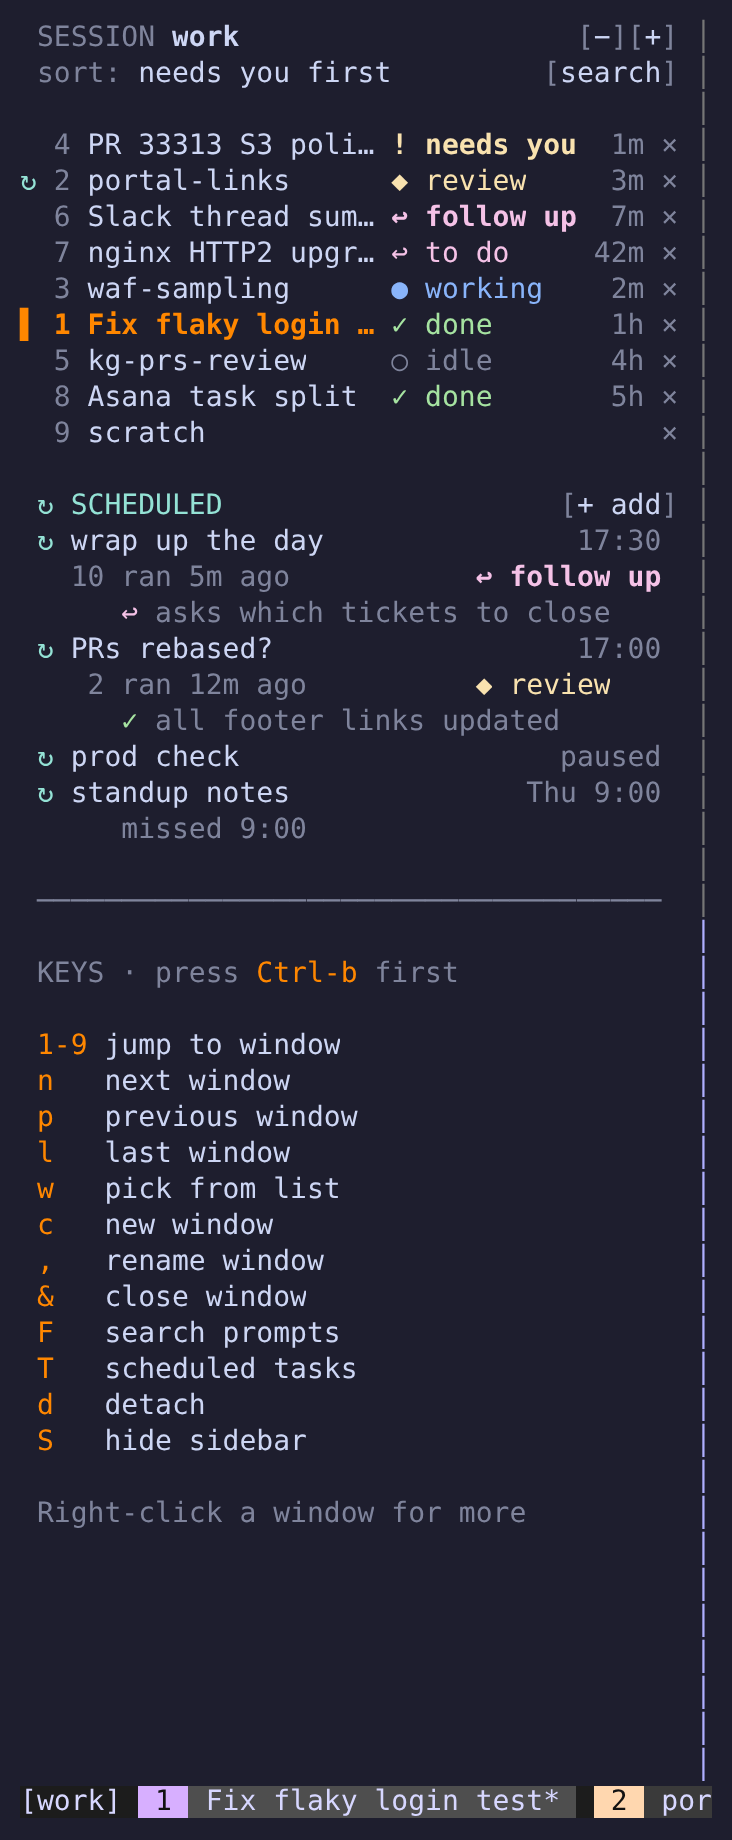
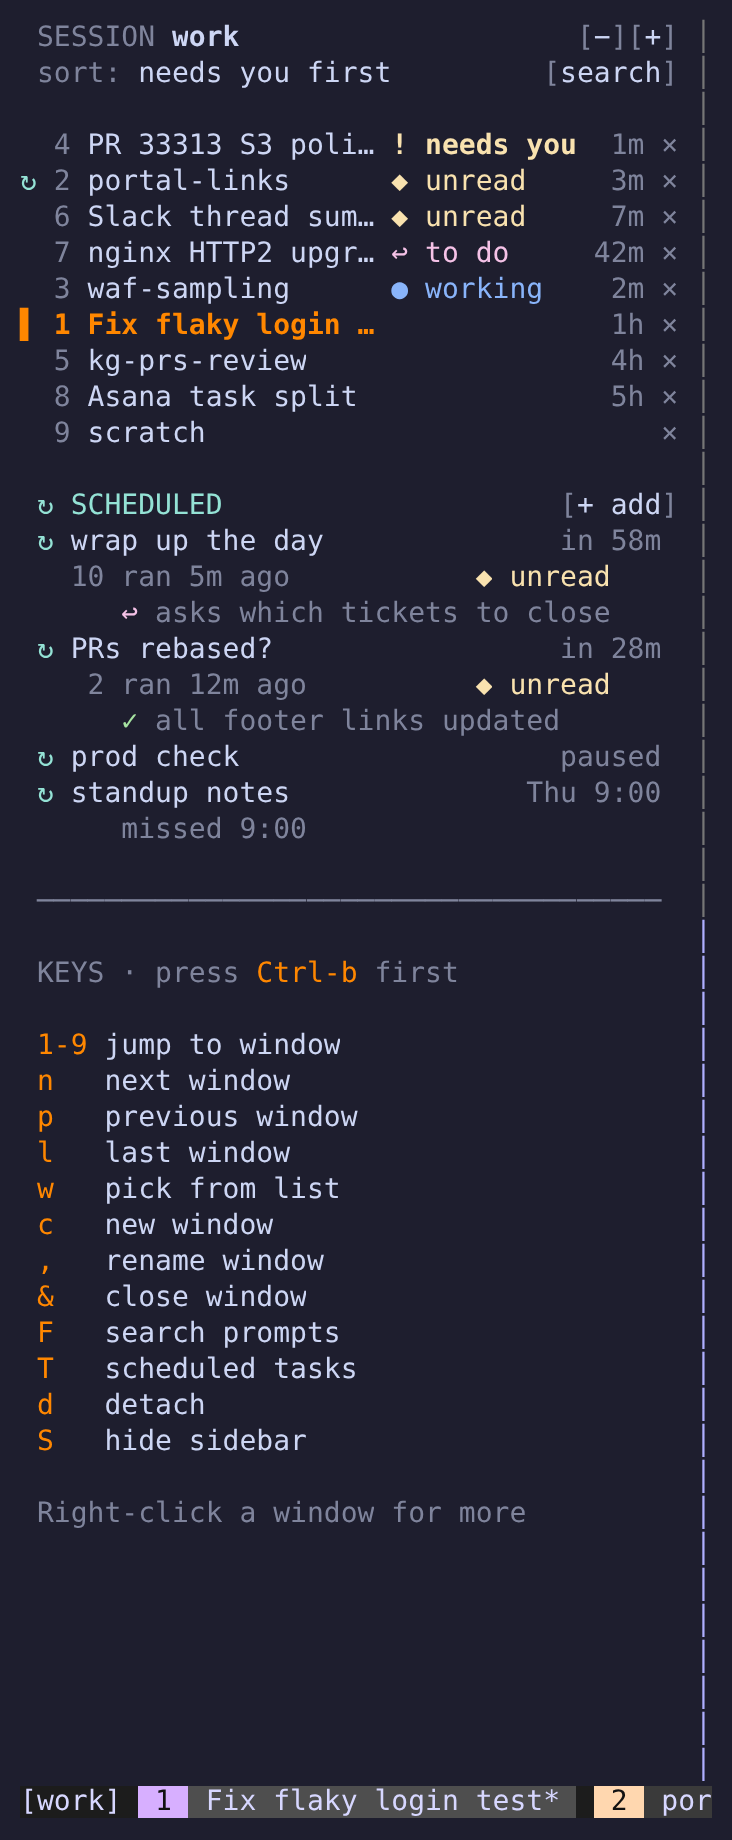
Simpler statuses; to-do only when Claude really needs you
The list mixed seven statuses (needs you, review, follow up, to do,
working, done, idle), and almost every read window became "to do",
because nearly every Claude reply ends by offering something ("Want me
to also open a PR?") and a trailing "?" was flagged at once.

Now four labels, each answering "does this want anything from me?":
  ! needs you  stopped at a permission prompt or question
  ◆ unread     finished since you last looked (yellow)
  ↩ to do      read, and Claude is waiting on your answer (magenta)
  ● working    busy
  (no label)   nothing needed: what was "done" and "idle"
Sorted in that order, then by most recent.

The follow-up check is stricter: only a turn that cannot go on without
you (an answer or decision it needs, a blocker, work left undone) is a
to-do; optional offers are wrapped up, and when in doubt, wrapped up.
The instant "ends with ?" guess is gone. Checked on real Haiku: "tests
pass, want me to open a PR?" -> wrapped; "which approach before I
continue?" -> to do.

Right-click > "Mark all to-dos done" clears to-dos left by the old,
eager check.

Claude-Session: https://claude.ai/code/session_013KgnzHV6sD8bfHRS8osd48

diff --git a/test/acceptance.py b/test/acceptance.py
@@ -14,6 +14,7 @@ terminal resizes go through tmux exactly as they would from a terminal.
 import argparse
 import fcntl
 import json
+import re
 import os
 import pty
 import select
@@ -41,8 +42,8 @@ ENV.pop("TMUX_PANE", None)
 ENV.pop("CLAUDE_CODE_DISABLE_TERMINAL_TITLE", None)
 
 results = []
-LABELS = {"working": "● working", "needs": "! needs you", "review": "◆ review",
-          "done": "✓ done", "idle": "○ idle"}
+LABELS = {"working": "● working", "needs": "! needs you", "review": "◆ unread"}
+QUIET = ("done", "idle")      # nothing needed: no label at all
 
 
 def tmux(*a, check=True):
@@ -339,6 +340,12 @@ def run(c, work, codez):
     for state, label in LABELS.items():
         tmux("set", "-w", "-t", bg, "@claude_state", state)
         check("sidebar shows %r" % label, wait(lambda: row_of(sb, label) is not None, 2.5))
+    bgn = fmt(bg, "#{window_name}")[:8]
+    for state in QUIET:
+        tmux("set", "-w", "-t", bg, "@claude_state", state)
+        check("sidebar shows no label for %r (nothing needed)" % state,
+              wait(lambda: not any(x in (tmux("capture-pane", "-p", "-t", sb).splitlines()[row_of(sb, bgn)])
+                                   for x in ("◆", "●", "!", "↩", "✓", "○")), 2.5))
     tmux("set", "-uw", "-t", bg, "@claude_state")
     bg_name = fmt(bg, "#{window_name}")[:8]
     check("plain shell window shows no status",
@@ -527,16 +534,17 @@ def attention_checks(c, W, ec):
     run_hook(pa, "done")
     check("review: Stop in a background window -> review",
           wait(lambda: fmt(a, "#{@claude_state}") == "review", 2.5), fmt(a, "#{@claude_state}"))
-    check("review: sidebar shows ◆ review",
-          wait(lambda: any(" %s " % an in l and "◆ review" in l for l in sidebar_lines()), 3))
+    check("review: sidebar shows ◆ unread",
+          wait(lambda: any(" %s " % an in l and "◆ unread" in l for l in sidebar_lines()), 3))
     drawn = lambda w: fmt(w, "#{E:window-status-format}").lower()
     check("review: its tab is drawn yellow", "bg=#f9e2af" in drawn(a), drawn(a))
     check("review: a quiet window's tab is not yellow", "#f9e2af" not in drawn(ws[3]), drawn(ws[3]))
     tmux("select-window", "-t", a)
     check("review: switching to it marks it done",
           wait(lambda: fmt(a, "#{@claude_state}") == "done", 3), fmt(a, "#{@claude_state}"))
-    check("review: then the sidebar shows ✓ done",
-          wait(lambda: any(" %s " % an in l and "✓ done" in l for l in sidebar_lines()), 3))
+    check("review: then it is quiet (no label, still the age)",
+          wait(lambda: any(" %s " % an in l and "◆" not in l and "<1m ×" in l for l in sidebar_lines()), 3),
+          "\n".join(sidebar_lines()))
     check("rows: the age column lines up with the ×",
           all(l.rstrip().endswith("×") for l in sidebar_lines() if " %s " % an in l))
     tmux("select-window", "-t", cur)
@@ -765,8 +773,8 @@ def judge_checks(c, W):
 
     answer("FOLLOWUP: asks whether to open a PR\n")
     turn("Fixed the race and tests pass. Want me to open a PR?")
-    check("judge: a reply ending in a question is a follow-up at once",
-          wait(lambda: fmt(t, "#{@claude_verdict}") == "followup", 2), fmt(t, "#{@claude_verdict}"))
+    check("judge: the system prompt treats optional offers as wrapped up",
+          wait(lambda: os.path.exists(log), 3) and "optional offer is not a follow-up" in open(log).read())
     check("judge: Claude's verdict and reason are stored",
           wait(lambda: fmt(t, "#{@claude_note}") == "asks whether to open a PR", 5), fmt(t, "#{@claude_note}"))
     calls = open(log).read() if os.path.exists(log) else ""
@@ -778,26 +786,28 @@ def judge_checks(c, W):
           "fix the flaky login test" in calls and "Want me to open a PR?" in calls)
     tname = fmt(t, "#{window_name}")[:10]
     row = lambda: next((l for l in sidebar_lines() if tname in l and "×" in l), "")
-    check("judge: unread and not wrapped up -> 'follow up' (status only, no reason)",
-          wait(lambda: "↩ follow up" in row(), 3)
+    check("judge: unread and not wrapped up -> still just 'unread' (status only, no reason)",
+          wait(lambda: fmt(t, "#{@claude_verdict}") == "followup" and "◆ unread" in row(), 5)
           and not any("asks whether to open" in l for l in sidebar_lines()), "\n".join(sidebar_lines()))
     check("judge: an unread follow-up turns its tab yellow",
           "bg=#f9e2af" in fmt(t, "#{E:window-status-format}").lower())
     check("judge: the menu still offers 'Mark as reviewed' for it",
-          "=review=followup=" in tmux("show", "-pqv", "-t", sidebar_panes(cur)[0], "@sidebar_rows"),
+          wait(lambda: "=review=followup=" in tmux("show", "-pqv", "-t", sidebar_panes(cur)[0], "@sidebar_rows"), 3),
           tmux("show", "-pqv", "-t", sidebar_panes(cur)[0], "@sidebar_rows"))
     tmux("select-window", "-t", t)
     check("judge: once you have looked, it is 'to do' (read, not done)",
-          wait(lambda: "↩ to do" in row() and "follow up" not in row(), 3), "\n".join(sidebar_lines()))
+          wait(lambda: "↩ to do" in row() and "unread" not in row(), 3), "\n".join(sidebar_lines()))
     tmux("select-window", "-t", cur)
     other = [w for w in ws if w not in (t, cur)][-1]
     tmux("set", "-w", "-t", other, "@claude_state", "done")
     tmux("set", "-w", "-t", other, "@claude_updated", str(int(time.time()) + 5))
 
+    oname = fmt(other, "#{window_name}")[:10]
+
     def follow_first():
         lines = sidebar_lines()
         f = [i for i, l in enumerate(lines) if "↩ to do" in l]
-        d = [i for i, l in enumerate(lines) if "✓ done" in l and "×" in l]
+        d = [i for i, l in enumerate(lines) if oname in l and "×" in l]
         return f and d and f[0] < d[0]
     check("judge: a 'to do' sorts above done windows, even newer ones",
           wait(follow_first, 3), "\n".join(sidebar_lines()))
@@ -811,10 +821,9 @@ def judge_checks(c, W):
     c.send("\x1b[<2;6;%dm" % (y + 1))
     check("judge: menu offers 'Mark as wrapped up'", wait(lambda: b"Mark as wrapped up" in c.buf, 3))
     c.send("w")
-    check("judge: marking it wrapped up -> done",
-          wait(lambda: fmt(t, "#{@claude_verdict}") == "wrapped" and
-               any(" %s " % fmt(t, "#{window_name}")[:10] in l and "✓ done" in l
-                   for l in sidebar_lines()), 3), "\n".join(sidebar_lines()))
+    check("judge: marking it wrapped up -> quiet",
+          wait(lambda: fmt(t, "#{@claude_verdict}") == "wrapped" and "↩" not in row(), 3),
+          "\n".join(sidebar_lines()))
 
     answer("WRAPPED: tests pass, nothing pending\n")
     turn("All done: the flaky test is fixed and CI is green.")
@@ -838,14 +847,13 @@ def judge_checks(c, W):
           fmt(t, "#{@claude_verdict}") == "" and fmt(t, "#{@claude_state}") == "working",
           fmt(t, "#{@claude_verdict}|#{@claude_state}|#{@claude_note}|#{@claude_turn}|#{@claude_prompt}"))
 
-    # Turned off: only the quick guess, no call.
+    # Turned off: no call, no verdict (a trailing "?" alone is not a to-do).
     tmux("set", "-g", "@claude_sidebar_judge", "off")
     try:
         os.remove(log)
         turn("Which database should I use, Postgres or SQLite?")
-        check("judge: off -> still the quick guess",
-              wait(lambda: fmt(t, "#{@claude_verdict}") == "followup", 3))
         time.sleep(1.5)
+        check("judge: off -> no verdict", fmt(t, "#{@claude_verdict}") == "", fmt(t, "#{@claude_verdict}"))
         check("judge: off -> Claude is not called", not os.path.exists(log))
     finally:
         tmux("set", "-gu", "@claude_sidebar_judge")
@@ -960,7 +968,7 @@ def sched_checks(c, W):
         c.send("\x1b")
         time.sleep(0.5)
         check("sched: the sidebar lists both tasks with their next run",
-              wait(lambda: any("↻ PRs rebased" in l and ("17:30" in l or ":" in l) for l in lines()) and
+              wait(lambda: any(re.search(r"↻ PRs rebased\s+(\S.*)?(in \d+m|\d+:\d\d)", l) for l in lines()) and
                    any("↻ standup-notes" in l for l in lines()), 4), "\n".join(lines()))
 
         # Run now -> a new window of its own (stub Claude), listed under SCHEDULED.
@@ -1272,7 +1280,7 @@ def claude_checks(c, codez, close_via_x):
     tmux("send-keys", "-t", cp, "Enter")  # approve
     check("5. Claude finishes in a background window -> review",
           wait(lambda: fmt(cw, "#{@claude_state}") == "review", 90), fmt(cw, "#{@claude_state}"))
-    check("5. sidebar shows review", wait(lambda: row_of(sb, "◆ review") is not None, 3))
+    check("5. sidebar shows unread", wait(lambda: row_of(sb, "◆ unread") is not None, 3))
     check("claude: the tool really ran", os.path.exists(os.path.join(codez, "tcs-probe.txt")))
     pid = fmt(cw, "#{@claude_pid}")
     check("claude: hooks record Claude Code's own pid (it runs in the pane)",
@@ -1337,7 +1345,7 @@ def claude_checks(c, codez, close_via_x):
         sb2 = sidebar_panes(current_window())[0]
         check("sched live: shown under SCHEDULED with its status",
               wait(lambda: row_of(sb2, "↻ live check") is not None and
-                   any("ran" in l and "◆ review" in l for l in tmux("capture-pane", "-p", "-t", sb2).splitlines()), 4))
+                   any("ran" in l and "◆ unread" in l for l in tmux("capture-pane", "-p", "-t", sb2).splitlines()), 4))
         tmux("kill-window", "-t", sw)
     finally:
         if saved is None:

diff --git a/sidebar/judge.py b/sidebar/judge.py
@@ -8,8 +8,7 @@ Writes on the pane's window:
     @claude_verdict   "wrapped" or "followup"
     @claude_note      a few words saying why
 
-First a quick guess (the reply ends with a question), then a one-shot call to
-Claude Code itself (`claude -p --model haiku`, your existing login; hooks,
+A one-shot call to Claude Code itself (`claude -p --model haiku`, your existing login; hooks,
 tools, MCP servers and session saving are all off for that call), unless
 turned off with `sidebar.sh judge off`. Results for a turn that has since been
 followed by a new prompt are dropped. Always exits 0, silently.
@@ -26,14 +25,16 @@ MAX_CHARS = 6000
 TIMEOUT = 90
 SYSTEM = (
     "You triage finished Claude Code turns for a busy developer who runs many "
-    "sessions in parallel and cannot reread them all. Decide whether the work "
-    "in this turn is wrapped up, or whether the developer should come back to "
-    "it. Come back (FOLLOWUP) when Claude asked a question, offered options or "
-    "a choice, proposed a plan awaiting approval, hit an error or blocker it "
-    "could not get past, left requested steps undone, or says what to do next "
-    "and is waiting. WRAPPED when the request is done and nothing is pending "
-    "from the developer (a summary of finished work, passing tests, an answer "
-    "to a question). Reply with exactly one line, no other text: "
+    "sessions in parallel. A FOLLOWUP puts the session on the developer's "
+    "to-do list, so use it sparingly: only when the work cannot go on without "
+    "the developer. FOLLOWUP when Claude needs an answer or a decision to "
+    "continue (which of two approaches, missing information, approval of a "
+    "plan it is waiting on), hit an error or blocker it could not get past, "
+    "or left part of what was asked undone. WRAPPED when what was asked is "
+    "done or answered, even if Claude ends by offering optional extras or "
+    "next steps (\"Want me to also open a PR?\", \"I can add tests if you "
+    "like\", \"Let me know if...\"): an optional offer is not a follow-up. "
+    "When in doubt, WRAPPED. Reply with exactly one line, no other text: "
     "\"WRAPPED: <reason>\" or \"FOLLOWUP: <reason>\", the reason at most 8 "
     "words, specific (e.g. \"asks whether to open a PR\")."
 )
@@ -132,15 +133,6 @@ def last_reply_from_transcript(path):
     return text
 
 
-def quick_guess(reply):
-    """A question at the end of the reply means it is waiting for you."""
-    tail = reply.strip()[-300:]
-    last = [ln for ln in tail.splitlines() if ln.strip()][-1:] or [""]
-    if last[0].rstrip(" *_`)").endswith("?"):
-        return "followup", "ends with a question"
-    return None
-
-
 def ask_claude(prompt, reply):
     exe = shutil.which("claude")
     if not exe:
@@ -188,10 +180,8 @@ def main():
     if not reply.strip():
         return
     quiet = remember_report(pane, reply) == "nothing new"
-    guess = quick_guess(reply)
-    if guess:
-        write(pane, turn, *guess)
-        ring_if_scheduled(pane, turn)
+    # No quick guess from a trailing "?": most replies end by offering
+    # something optional, which is not a follow-up. Only the check decides.
     if tmux("show", "-gqv", "@claude_sidebar_judge") == "off":
         return
     prompt = tmux("display", "-p", "-t", pane, "#{@claude_prompt}")

diff --git a/sidebar/search.py b/sidebar/search.py
@@ -22,10 +22,10 @@ import unicodedata
 from datetime import datetime
 
 STATE_LABEL = {
-    "needs": "! needs you", "review": "◆ review", "working": "● working",
-    "done": "✓ done", "idle": "○ idle", "followup": "↩ follow up", "todo": "↩ to do", "": "",
+    "needs": "! needs you", "review": "◆ unread", "followup": "◆ unread",
+    "todo": "↩ to do", "working": "● working", "done": "", "idle": "", "": "",
 }
-TIER = {"needs": 0, "review": 1, "followup": 1, "todo": 2}
+TIER = {"needs": 0, "review": 1, "followup": 1, "todo": 2, "working": 3}
 
 
 def tmux(*args):
@@ -249,7 +249,7 @@ def ui(stdscr, client, wins):
         pass
     pairs = {}
     for i, (key, fg) in enumerate((("needs", curses.COLOR_YELLOW), ("review", curses.COLOR_YELLOW),
-                                   ("followup", curses.COLOR_MAGENTA), ("todo", curses.COLOR_MAGENTA),
+                                   ("followup", curses.COLOR_YELLOW), ("todo", curses.COLOR_MAGENTA),
                                    ("working", curses.COLOR_BLUE), ("done", curses.COLOR_GREEN),
                                    ("idle", -1), ("match", curses.COLOR_YELLOW),
                                    ("accent", 208 if curses.COLORS >= 256 else curses.COLOR_RED)), 1):

diff --git a/sidebar/sched.py b/sidebar/sched.py
@@ -804,9 +804,9 @@ def clip(text, width):
     return "".join(out)
 
 
-STATE_LABEL = {"needs": "! needs you", "review": "◆ review", "working": "● working",
-               "done": "✓ done", "idle": "○ idle", "followup": "↩ follow up",
-               "todo": "↩ to do"}
+STATE_LABEL = {"needs": "! needs you", "review": "◆ unread", "followup": "◆ unread",
+               "todo": "↩ to do", "working": "● working", "done": "✓ finished",
+               "idle": "✓ finished"}
 
 
 def run_status(win):
@@ -839,7 +839,7 @@ def ui(stdscr, args):
         pass
     colors = {}
     for i, (k, fg) in enumerate((("needs", curses.COLOR_YELLOW), ("review", curses.COLOR_YELLOW),
-                                 ("followup", curses.COLOR_MAGENTA), ("todo", curses.COLOR_MAGENTA),
+                                 ("followup", curses.COLOR_YELLOW), ("todo", curses.COLOR_MAGENTA),
                                  ("working", curses.COLOR_BLUE),
                                  ("done", curses.COLOR_GREEN), ("accent", 208 if curses.COLORS >= 256 else curses.COLOR_RED),
                                  ("cyan", curses.COLOR_CYAN), ("err", curses.COLOR_RED)), 1):

diff --git a/README.md b/README.md
@@ -21,19 +21,14 @@ From the top:
 - **One row per window**: its number, name, Claude Code status, how long
   ago that status changed, and a `×` to close it. The orange bar marks the
   window you are in.
-- **Status**:
-  - `! needs you` (bold yellow): a permission prompt or a question dialog.
-  - `◆ review` (yellow): Claude finished while you were not looking, and
-    the work is wrapped up (or the AI check has not answered yet).
-  - `↩ follow up` (bold magenta): Claude finished while you were not
-    looking, and the turn is not wrapped up: it asked something, offered
-    options, hit an error, or left steps undone.
-  - `↩ to do` (magenta): a follow-up you have already looked at. It stays in
-    the list until you reply or mark it wrapped up, but no longer counts as
-    unread.
-  - `● working` (blue), `✓ done` (green, wrapped up and seen), `○ idle` (grey).
-- **Why a window needs you** (`↩ asks whether to open a PR`) and your last
-  prompt are in search (`Ctrl-b F`), which keeps the list itself short.
+- **Status**, one of four, in this order:
+  - `! needs you` (bold yellow): Claude is stopped at a permission prompt or
+    a question.
+  - `◆ unread` (yellow): Claude finished since you last looked.
+  - `↩ to do` (magenta): you have looked, and Claude is waiting on your
+    answer or decision (see "Wrapped up, or come back to it?" below).
+  - `● working` (blue): Claude is busy.
+  - No label: nothing is needed from you (finished and read, or not started).
 - **↻ SCHEDULED**: your scheduled tasks, each with its next run, and under
   it the window it last ran in with that run's status (and why, if it needs
   you). Click a task to manage it, a run line to go to that window, or
@@ -46,27 +41,28 @@ From the top:
 ## Features
 
 - **Status per window**: `working` after you send a prompt, `needs you` when
-  Claude asks for permission or asks you a question, `review` when it
-  finishes while you are elsewhere, `done` once you have looked, `idle` when a
-  session has started but has no prompt yet (or you stopped it with Esc).
-  Windows without Claude Code show no status.
-- **Review until you look**: a turn that ends in a window you are not looking
-  at shows `◆ review` and turns its tab in the status bar yellow. Switching to
-  the window marks it `done`. "Looking" means it is the current window and the
+  Claude asks for permission or asks you a question, `unread` when it
+  finishes while you are elsewhere, then no label once you have looked (or
+  `to do` if it is waiting on you).
+- **Unread until you look**: a turn that ends in a window you are not looking
+  at shows `◆ unread` and turns its tab in the status bar yellow. Switching to
+  the window marks it read. "Looking" means it is the current window and the
   terminal has focus, so a turn that ends while you are in another app also
   waits for you.
 - **Wrapped up, or come back to it?** When a turn ends, a short background
   call to Claude (`claude -p --model haiku`, with your existing login) reads
-  your last prompt and Claude's final message and decides. A turn that needs
-  you shows `↩ follow up` until you look at it, then `↩ to do`, which stays
-  near the top until you send another prompt or right-click it and choose
-  "Mark as wrapped up". Before that call answers (a few seconds), a reply that ends with a
-  question already counts as a follow-up. It costs one small Haiku request per
+  your last prompt and Claude's final message and decides. Only a turn that
+  cannot go on without you counts: Claude needs an answer or decision, hit a
+  blocker or error, or left part of the request undone. An optional offer at
+  the end ("Want me to also open a PR?") does not. Once you have looked at
+  such a turn it shows `↩ to do` until you send another prompt or right-click
+  it and choose "Mark as wrapped up" ("Mark all to-dos done" clears them
+  all). It costs one small Haiku request per
   finished turn; turn it off from the right-click menu, or with
   `~/.tmux/sidebar/sidebar.sh judge off`. That call runs with hooks, tools,
   MCP servers and session saving switched off.
-- **Sorted by what needs you**: `needs you`, then unread (`review` and
-  `follow up`), then `to do`, then the rest by when they last changed, then
+- **Sorted by what needs you**: `needs you`, then `unread`, then `to do`,
+  then `working`, then the rest by when they last changed, then
   windows without Claude Code.
   Click `sort:` at the top to switch to window-number order (kept after tmux
   restarts). The numbers shown are always the tmux window numbers, so
@@ -266,7 +262,7 @@ closes the sidebars in a running tmux server. The plugins in `~/.tmux/plugins` a
   (`wrapped` or `followup`) and `@claude_note`. A verdict for a turn that a
   newer prompt has replaced is dropped.
 - tmux hooks (`session-window-changed`, `client-session-changed`,
-  `client-focus-in`, `client-attached`) turn `review` into `done` for the
+  `client-focus-in`, `client-attached`) mark as read (`review` becomes `done`) the
   window a focused client is showing.
 - `sched.py daemon` is started by the tmux config, once per tmux server (a
   lock file makes a second start exit), checks the schedules every 15
